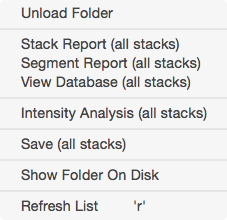
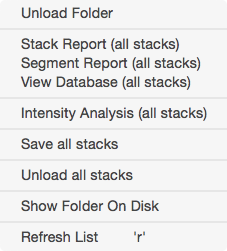
sb and ts update

diff --git a/_site/stack-browser.html b/_site/stack-browser.html
@@ -204,20 +204,13 @@
 
 <p>The stack browser is the main starting point for using Map Manager. The stack browser provides an interface to load and browse folders of .tif <a href="stack">stacks</a>.</p>
 
-<p>The list on the left is a list of loaded folders, each folder has a list of stacks. The list on the right shows the stacks in the selected folder. Select a folder on the left and the list on the right will show the individual stacks within that folder.</p>
-
-<p>Double click a stack to open a <a href="stack">stack</a> window.</p>
+<p>The list on the left is a list of loaded folders. Select a folder (on the left) and the list on the right will show the individual stacks within that folder. Double click a stack to open a <a href="stack">stack</a> window.</p>
 
 <h3 id="loading-stacks">Loading stacks</h3>
 
-<h4 id="generic-import">Generic Import</h4>
+<h4 id="load-tiff-folder">Load Tiff Folder</h4>
 
-<p>The <strong>Load Tiff Folder</strong> button loads a folder of single-channel .tif stacks. Once loaded, the following should be filled in for each stack</p>
-
-<ol>
-  <li>The stack scale can be automatically set for all imported stacks using the <strong>um/pixel</strong> x/y and z fields. This assumes all stacks in a folder have the same scale. The scale of individual stacks can then be set in the [stack][stack] window using keyboard shit+p.</li>
-  <li>If the source .tif stack are multi-channel stacks, see <a href="https://github.com/cudmore/bob-fiji-plugins">bAlignBatch</a> for a Fiji plugin to pre-process .tif stacks into ch1/ch2 file pairs.</li>
-</ol>
+<p>Load a folder of single channel .tif files from hard-drive. If these .tif files have been converted with one of the <a href="fiji-plugins">Map Manager Fiji plugins</a>, the voxel size, date, and time should be correctly set.</p>
 
 <h4 id="scanimage-import">ScanImage Import</h4>
 
@@ -227,7 +220,7 @@
 
 <h4 id="drag-and-drop">Drag and drop</h4>
 
-<p>The simplest way to load a single stack is to drag and drop a .tif file onto the Igor program icon. Stacks opened in this way will appear in a special folder (in the list on the left) called ‘DragAndDrop’.</p>
+<p>A simplest way to load a single stack is to drag and drop a .tif file onto the Igor program icon. Stacks opened in this way will appear in a special folder (in the list on the left) called ‘DragAndDrop’.</p>
 
 <p class="tip"><b>Tip.</b> The order of stacks can be sorted by selecting columns in the stack list. To sort by date, select 'Date' in the columns header. <b>This ordering is critical when batch importing a list of stacks into a Map Manager map</b></p>
 <p>.</p>
@@ -235,15 +228,13 @@
 <h3 id="browsing-loaded-data">Browsing loaded data</h3>
 
 <ul>
-  <li>Select a loaded folder on the left and the stacks in that folder will be shown on the right.</li>
-  <li>Double click a stack in the list on the right to open a <a href="stack">stack</a> window.</li>
+  <li>Select a loaded folder (on the left) and the stacks in that folder will be shown (on the right).</li>
+  <li>Double click a stack to open a <a href="stack">stack</a> window.</li>
 </ul>
 
-<p><img class="img-float-right" src="images/mm3/stack-browser/stack-browser-right-click-folder.png" width="225" /></p>
+<p><img class="img-float-right" src="images/mm3/stack-browser/stack-browser-right-click-folder.png" width="200" /></p>
 
-<h3 id="right-click-a-folder-in-the-folder-list">Right-click a folder in the folder list</h3>
-
-<p>Right-click a folder to open a contextual menu.</p>
+<h3 id="right-click-a-folder-for-a-context-menu">Right-click a folder for a context menu</h3>
 
 <ul>
   <li>
@@ -262,7 +253,10 @@
     <p><strong>Intensity Analysis (all stacks)</strong>. Analyze the intensity of all stacks in the folder. It is critical that each spine in the analysis is checked manually. Please see [Intensity Analysis][intensity].</p>
   </li>
   <li>
-    <p><strong>Save (all stacks)</strong>. Will save the annotations for all ‘dirty’ stacks in a folder. Dirty stacks are stacks that have been changed or modified since they were loaded. Dirty stacks are noted in the stack list with a <font color="red"><strong>red</strong></font> background in the ‘D’ column.</p>
+    <p><strong>Save all stacks</strong>. Will save the annotations for all ‘dirty’ stacks in a folder. Dirty stacks are stacks that have been changed or modified since they were loaded. Dirty stacks are noted in the stack list with a <font color="red"><strong>red</strong></font> background in the ‘D’ column.</p>
+  </li>
+  <li>
+    <p><strong>Unload all stacks</strong>. Unload the raw image data for all stacks in the list.</p>
   </li>
   <li>
     <p><strong>Show Folder On Disk</strong>. Open the hard-drive folder the folder was originally loaded from. This opens a Finder window on OSX and an Explorer window on Microsoft Windows.</p>
@@ -274,9 +268,9 @@
 
 <div class="print-page-break"></div>
 
-<h3 id="right-click-a-stack-in-the-stack-list">Right-click a stack in the stack list</h3>
+<p><img class="img-float-right" src="images/mm3/stack-browser/sb-right-click-stack.png" width="160" /></p>
 
-<p><img class="img-float-right" src="images/mm3/stack-browser/stack-browser-right-click-stack.png" width="200" /></p>
+<h3 id="right-click-a-stack-for-a-context-menu">Right-click a stack for a context menu</h3>
 
 <p>Right-click a stack to open a contextual menu. These menu items can also be triggered using the indicated keyboard shortcuts.</p>
 
@@ -286,6 +280,12 @@
   </li>
   <li>
     <p><strong>Unload Stack</strong>. Unload the raw data for a stack. <font color="red"><strong>Important</strong></font>, this unloads the raw data to conserve memory, it <strong>DOES NOT</strong> unload the stack annotations.</p>
+  </li>
+  <li>
+    <p><strong>Unload Stack DB</strong>.</p>
+  </li>
+  <li>
+    <p><strong>Stack Info</strong>.</p>
   </li>
   <li>
     <p><strong>Stack Report</strong>.</p>
@@ -300,6 +300,14 @@
     <p><strong>Experimental - Segment Length Plot</strong>. Make both 2D and 3D plots of segment length as a function of the Z-Smoothing parameter.</p>
   </li>
 </ul>
+
+<div class="print-page-break"></div>
+
+<p><img class="img-float-right" src="images/mm3/stack-browser/sb-right-click-header.png" width="160" /></p>
+
+<h3 id="right-click-headers-in-the-stack-list-for-a-context-menu">Right-click headers in the stack list for a context menu</h3>
+
+<p>This menu will toggle the columns that are displayed in the stack list. These setting are saved with the main Map MAnager Options.</p>
 
 <div class="print-page-break"></div>
 

diff --git a/_site/time-series-panel.html b/_site/time-series-panel.html
@@ -250,9 +250,11 @@
   <li><strong>Close Windows</strong>. Close all windows associated with the selected map.</li>
 </ul>
 
-<h3 id="right-click-on-a-map-name-in-the-list-for-a-contextual-menu">Right-click on a map name in the list for a contextual menu.</h3>
+<h3 id="right-click-for-context-menus">Right-click for context menus</h3>
 
 <p><img class="img-float-right" src="images/mm3/time-series/time-series-right-click-map.png" width="140" /></p>
+
+<h4 id="right-click-on-a-map-name">Right-click on a map name.</h4>
 
 <ul>
   <li><strong>Find Points</strong>. Open <a href="find-points-panel">find points panel</a>.</li>
@@ -265,9 +267,11 @@
   <li><strong>Close Windows</strong>. Close all open windows associated with a map.</li>
 </ul>
 
-<h3 id="right-click-on-a-stack-name-in-the-list-for-a-contextual-menu">Right-click on a stack name in the list for a contextual menu.</h3>
+<div class="print-page-break"></div>
 
 <p><img class="img-float-right" src="images/mm3/time-series/time-series-right-click-stack.png" width="160" /></p>
+
+<h4 id="right-click-on-a-stack-name">Right-click on a stack name.</h4>
 
 <ul>
   <li><strong>Display Stack</strong>. Display the stack in a <a href="stack">stack</a> window.</li>
@@ -279,6 +283,17 @@
   <li><strong>Edit Table</strong>. Edit annotations in a stack as a text table. This is useful to copy and paste annotations for further analysis.</li>
   <li><strong>Unload Stack</strong>. Unload the raw image data for a stack. Unloading a stack does not unload the stack annotations.</li>
 </ul>
+
+<p><img class="img-float-right" src="images/mm3/time-series/ts-right-click-header.png" width="140" /></p>
+
+<h4 id="right-click-on-the-headers-in-the-stack-list">Right-click on the headers in the stack list.</h4>
+
+<ul>
+  <li>Columns can be toggled on and off.</li>
+  <li><strong>Edit Condition</strong>. Turns on editing of map and session conditions.</li>
+</ul>
+
+<div class="print-page-break"></div>
 
 <h3 id="tabs">Tabs</h3>
 
@@ -311,6 +326,8 @@
 <p><img class="img-float-right" src="images/mm3/time-series/ts-intensity.png" width="475" /></p>
 
 <p>Interface to plot intensity analysis of spine annotations. See <a href="intensity">intensity</a>.</p>
+
+<p>Right-click on plot buttons to plot ‘lifetime’ and ‘death’.</p>
 
 <div class="print-page-break"></div>
 

diff --git a/_posts/2015-04-19-stack-browser.md b/_posts/2015-04-19-stack-browser.md
@@ -15,19 +15,14 @@ tags:
  
 The stack browser is the main starting point for using Map Manager. The stack browser provides an interface to load and browse folders of .tif [stacks][3].
 
-The list on the left is a list of loaded folders, each folder has a list of stacks. The list on the right shows the stacks in the selected folder. Select a folder on the left and the list on the right will show the individual stacks within that folder.
-
-Double click a stack to open a [stack][3] window.
+The list on the left is a list of loaded folders. Select a folder (on the left) and the list on the right will show the individual stacks within that folder. Double click a stack to open a [stack][3] window.
 
 ### Loading stacks
 
-#### Generic Import
+#### Load Tiff Folder
 
-The **Load Tiff Folder** button loads a folder of single-channel .tif stacks. Once loaded, the following should be filled in for each stack
+Load a folder of single channel .tif files from hard-drive. If these .tif files have been converted with one of the [Map Manager Fiji plugins][10], the voxel size, date, and time should be correctly set.
 
- 1. The stack scale can be automatically set for all imported stacks using the **um/pixel** x/y and z fields. This assumes all stacks in a folder have the same scale. The scale of individual stacks can then be set in the [stack][stack] window using keyboard shit+p.
- 2. If the source .tif stack are multi-channel stacks, see [bAlignBatch][5] for a Fiji plugin to pre-process .tif stacks into ch1/ch2 file pairs.
- 
 #### ScanImage Import
 
 The **Load ScanImage Folder** loads a folder of ScanImage .tif stacks.
@@ -37,22 +32,21 @@ The **Load ScanImage Folder** loads a folder of ScanImage .tif stacks.
 
 #### Drag and drop
 
-The simplest way to load a single stack is to drag and drop a .tif file onto the Igor program icon. Stacks opened in this way will appear in a special folder (in the list on the left) called 'DragAndDrop'.
+A simplest way to load a single stack is to drag and drop a .tif file onto the Igor program icon. Stacks opened in this way will appear in a special folder (in the list on the left) called 'DragAndDrop'.
 
 <p class="tip"><B>Tip.</B> The order of stacks can be sorted by selecting columns in the stack list. To sort by date, select 'Date' in the columns header. <b>This ordering is critical when batch importing a list of stacks into a Map Manager map</B></p>. 
 
 ### Browsing loaded data
 
- - Select a loaded folder on the left and the stacks in that folder will be shown on the right.
- - Double click a stack in the list on the right to open a [stack][3] window.
+ - Select a loaded folder (on the left) and the stacks in that folder will be shown (on the right).
+ - Double click a stack to open a [stack][3] window.
 
 
-<IMG class="img-float-right" SRC="images/mm3/stack-browser/stack-browser-right-click-folder.png" WIDTH="225">
 
+<IMG class="img-float-right" SRC="images/mm3/stack-browser/stack-browser-right-click-folder.png" WIDTH="200">
 
-### Right-click a folder in the folder list
+### Right-click a folder for a context menu
 
-Right-click a folder to open a contextual menu.
 
  - **Unload Folder**. Unload the folder and all its stacks.
 
@@ -64,8 +58,10 @@ Right-click a folder to open a contextual menu.
 
  - **Intensity Analysis (all stacks)**. Analyze the intensity of all stacks in the folder. It is critical that each spine in the analysis is checked manually. Please see [Intensity Analysis][intensity].
 
- - **Save (all stacks)**. Will save the annotations for all 'dirty' stacks in a folder. Dirty stacks are stacks that have been changed or modified since they were loaded. Dirty stacks are noted in the stack list with a <font color="red"><strong>red</strong></font> background in the 'D' column.
+ - **Save all stacks**. Will save the annotations for all 'dirty' stacks in a folder. Dirty stacks are stacks that have been changed or modified since they were loaded. Dirty stacks are noted in the stack list with a <font color="red"><strong>red</strong></font> background in the 'D' column.
 
+ - **Unload all stacks**. Unload the raw image data for all stacks in the list.
+ 
  - **Show Folder On Disk**. Open the hard-drive folder the folder was originally loaded from. This opens a Finder window on OSX and an Explorer window on Microsoft Windows.
 
  - **Refresh List**. To refresh the list of folders and the selected folder's list of stacks. This is generally not needed.
@@ -73,15 +69,19 @@ Right-click a folder to open a contextual menu.
 <div class="print-page-break"></div>
 
 
-### Right-click a stack in the stack list
+<IMG class="img-float-right" SRC="images/mm3/stack-browser/sb-right-click-stack.png" WIDTH="160">
 
-<IMG class="img-float-right" SRC="images/mm3/stack-browser/stack-browser-right-click-stack.png" WIDTH="200">
+### Right-click a stack for a context menu
 
 Right-click a stack to open a contextual menu. These menu items can also be triggered using the indicated keyboard shortcuts.
 
  - **Display Stack**. Open a [stack][stack] window. Same as double-click.
 
  - **Unload Stack**. Unload the raw data for a stack. <font color="red"><strong>Important</strong></font>, this unloads the raw data to conserve memory, it **DOES NOT** unload the stack annotations.
+
+ - **Unload Stack DB**.
+
+ - **Stack Info**.
 
  - **Stack Report**.
 
@@ -90,6 +90,15 @@ Right-click a stack to open a contextual menu. These menu items can also be trig
  - **View Database**. Open a text table with all annotations in the stack. This can be copied and pasted into other programs for analysis.
 
  - **Experimental - Segment Length Plot**. Make both 2D and 3D plots of segment length as a function of the Z-Smoothing parameter.
+
+<div class="print-page-break"></div>
+
+
+<IMG class="img-float-right" SRC="images/mm3/stack-browser/sb-right-click-header.png" WIDTH="160">
+
+### Right-click headers in the stack list for a context menu
+
+This menu will toggle the columns that are displayed in the stack list. These setting are saved with the main Map MAnager Options.
 
 <div class="print-page-break"></div>
 
@@ -108,6 +117,6 @@ Once a folder of .tif stacks is loaded
 [5]: https://github.com/cudmore/bob-fiji-plugins
 [6]: spine-dynamics
 [reports]: reports
-
 [8]: annotating-a-stack
 [9]: making-a-map
+[10]: fiji-plugins

diff --git a/_posts/2015-04-20-time-series-panel.md b/_posts/2015-04-20-time-series-panel.md
@@ -51,9 +51,11 @@ Datetime, Days and Hours require stacks to have a date/time specified. A stacks 
  - **Unload Stacks**. Unload all stacks in the selected map. Ctrl+click to unload all stacks in all open maps. Unloading a stack will unload the RAW IMAGE DATA. It DOES NOT unload the stack annotations or the map.
  - **Close Windows**. Close all windows associated with the selected map.
 
-### Right-click on a map name in the list for a contextual menu.
+### Right-click for context menus
 
 <IMG class="img-float-right" SRC="images/mm3/time-series/time-series-right-click-map.png" WIDTH="140">
+
+#### Right-click on a map name.
 
  - **Find Points**. Open [find points panel][15].
  - **Density Report**. Generate a density report for the map. See [reports][17].
@@ -64,9 +66,11 @@ Datetime, Days and Hours require stacks to have a date/time specified. A stacks 
  - **Close map**. Close a map, removing all associated images and analysis from Igor memory.
  - **Close Windows**. Close all open windows associated with a map.
 
-### Right-click on a stack name in the list for a contextual menu.
+<div class="print-page-break"></div>
 
 <IMG class="img-float-right" SRC="images/mm3/time-series/time-series-right-click-stack.png" WIDTH="160">
+
+#### Right-click on a stack name.
 
  - **Display Stack**. Display the stack in a [stack][2] window.
  - **Plot Run +-1**. Plot a [run][11] of stacks from the selected stack.
@@ -76,7 +80,15 @@ Datetime, Days and Hours require stacks to have a date/time specified. A stacks 
  - **Find Points**. Open [find points panel][15].
  - **Edit Table**. Edit annotations in a stack as a text table. This is useful to copy and paste annotations for further analysis.
  - **Unload Stack**. Unload the raw image data for a stack. Unloading a stack does not unload the stack annotations.
- 
+
+<IMG class="img-float-right" SRC="images/mm3/time-series/ts-right-click-header.png" WIDTH="140">
+
+#### Right-click on the headers in the stack list.
+
+ - Columns can be toggled on and off.
+ - **Edit Condition**. Turns on editing of map and session conditions.
+
+<div class="print-page-break"></div>
 
 ### Tabs
 
@@ -110,6 +122,8 @@ Interface to analyze and plot the trajectories of annotations.
 <IMG class="img-float-right" SRC="images/mm3/time-series/ts-intensity.png" WIDTH="475">
 
 Interface to plot intensity analysis of spine annotations. See [intensity][18].
+
+Right-click on plot buttons to plot 'lifetime' and 'death'.
 
 <div class="print-page-break"></div>
 
